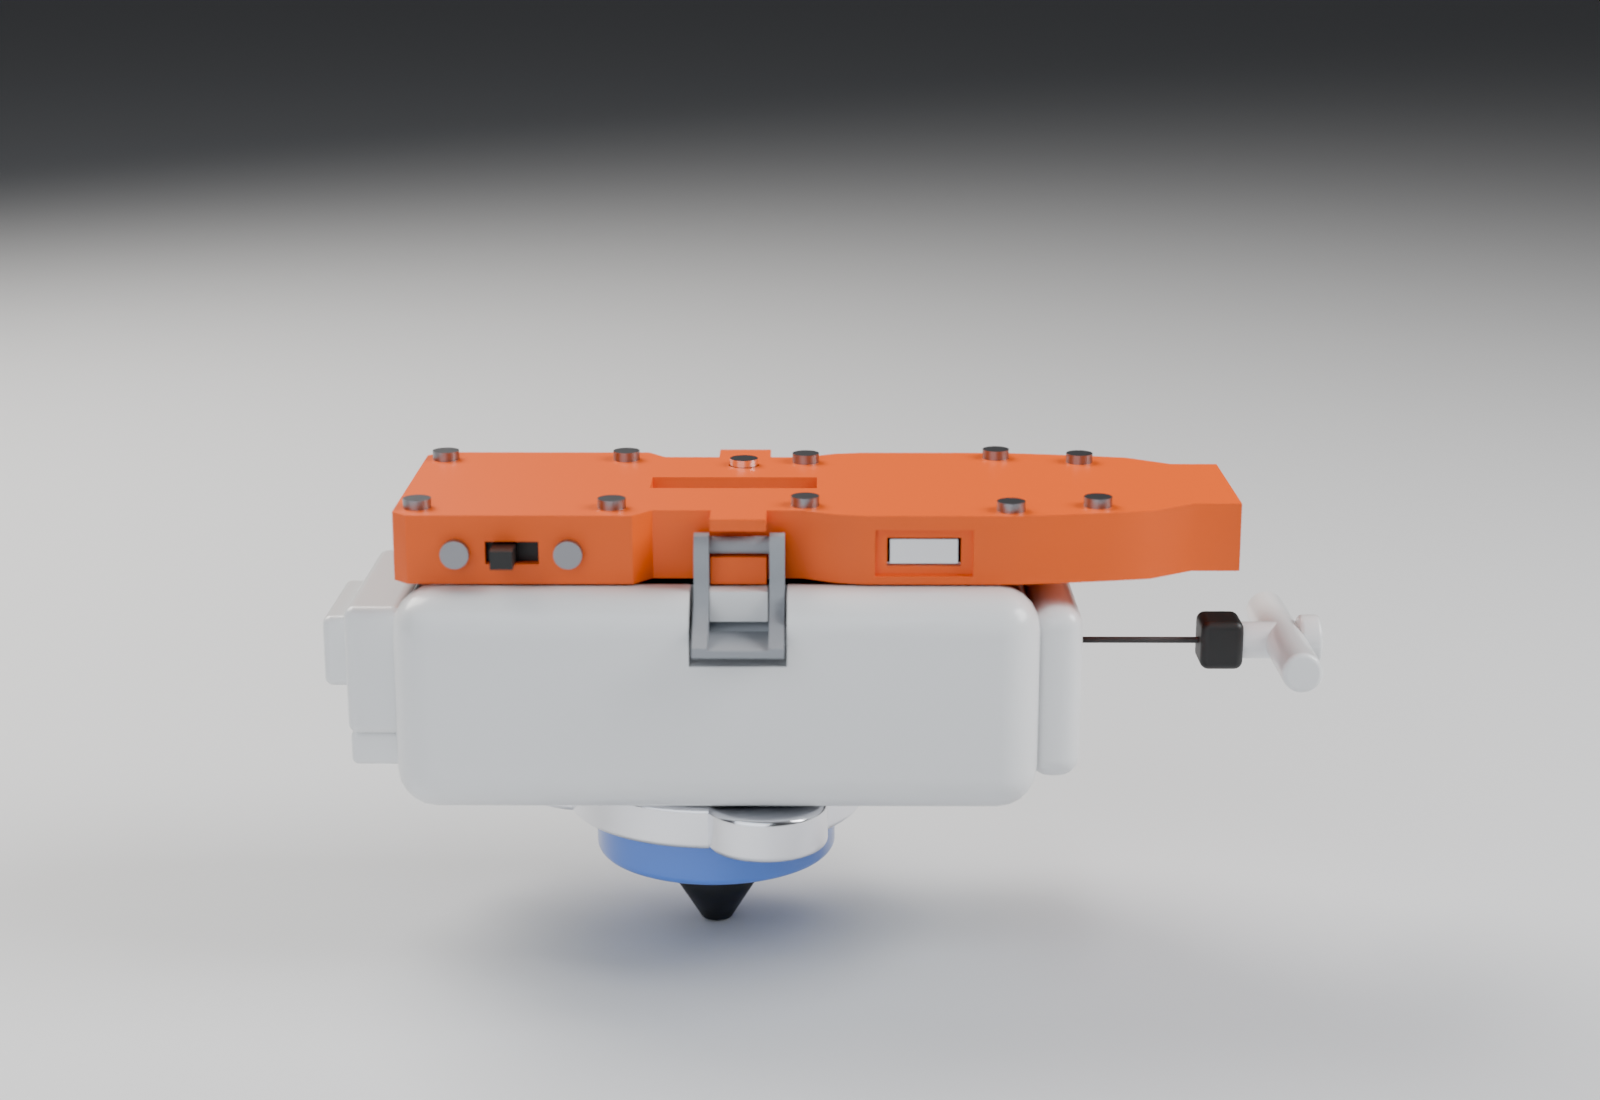
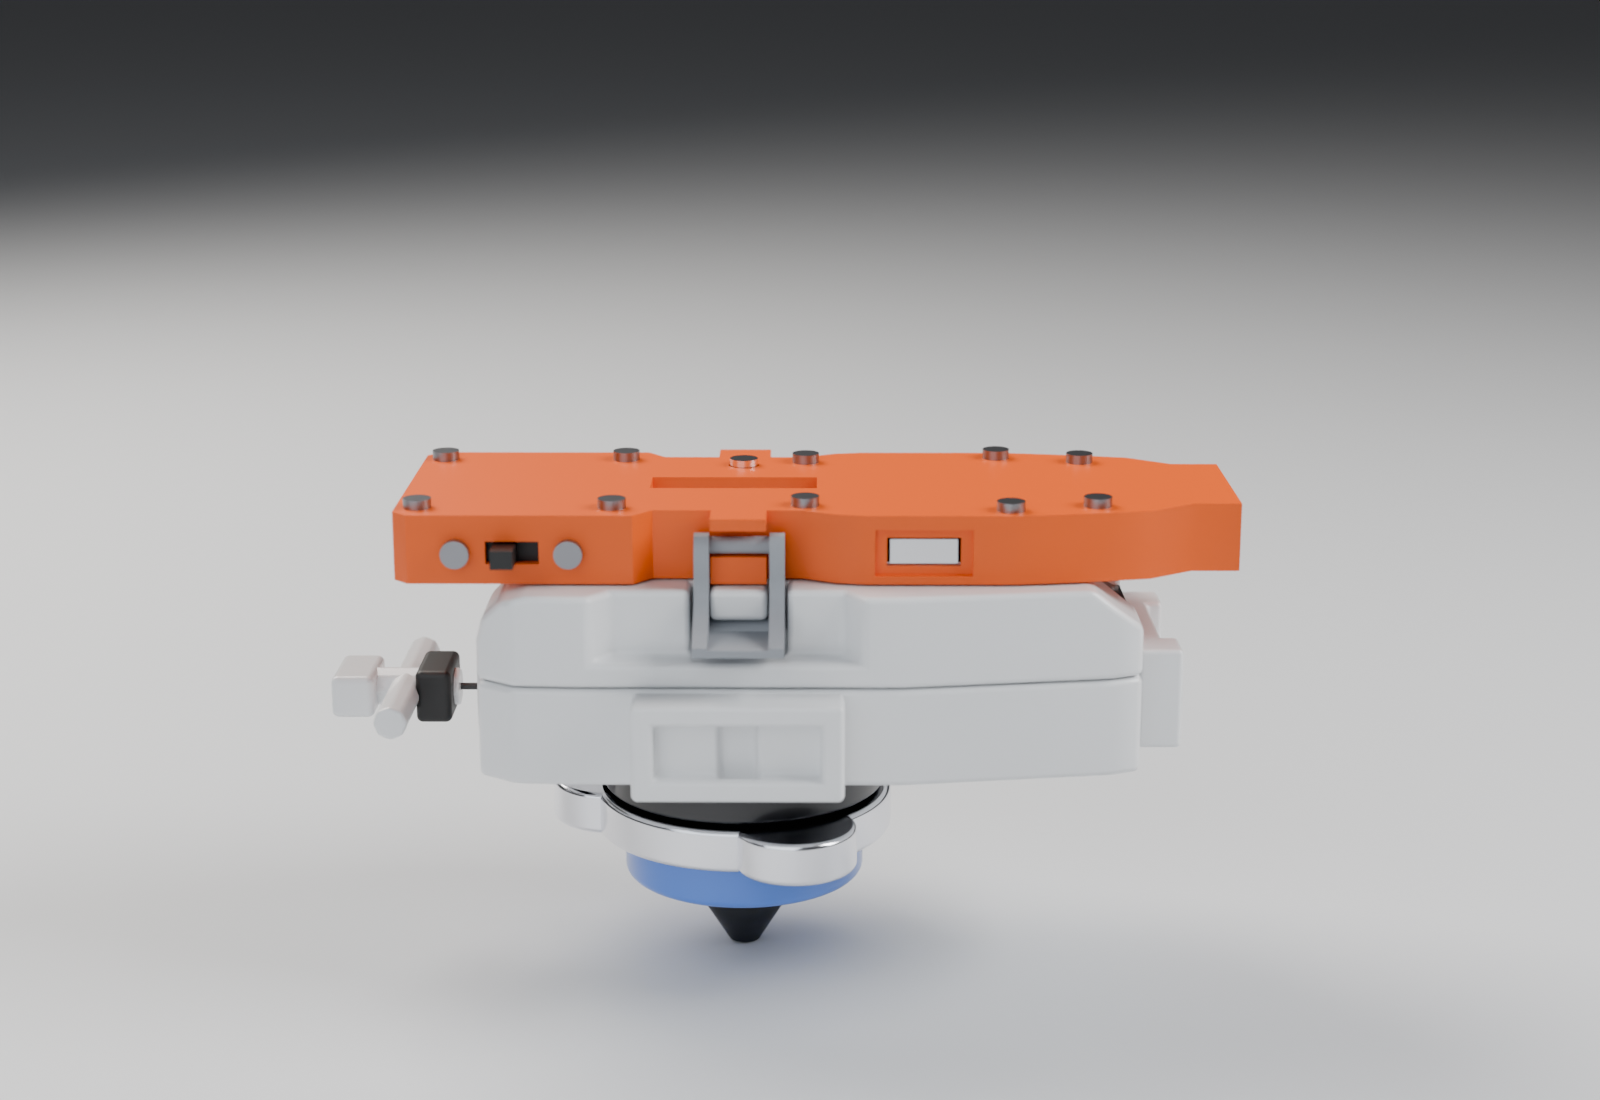
Render e documentazione con il launcher nel verso corretto

diff --git a/hardware/img/README.md b/hardware/img/README.md
@@ -16,8 +16,9 @@ I componenti sono **blocchi semplificati** con le misure tipiche usate nei param
 | `render_qre.png`, `render_qre_lato.png` | Render Blender della configurazione di riferimento: base QRE1113 di LaunchLab con la scatola SpinLite sopra, su un launcher a corda |
 | `render_piatta.png`, `render_piatta_lato.png`, `render_piatta_fronte.png`, `render_piatta_clip.png` | Render Blender della scatola piatta (`spinlite_flat.scad`) su un launcher a corda. La sede delle clip nel fianco del launcher è dedotta dalla forma delle clip, non misurata |
 | `render_tcrt.png` | Render Blender dell'alternativa: supporto laterale TCRT5000 di LaunchLab e scatola laterale (`spinlite_box.scad`) fissata al fianco con due fascette |
+| `render_launcher.png` | Render Blender del solo launcher: fascia nera con la finestrella del disco, più vicina alla corda, e il pistoncino |
 
-Nei render il **launcher e la trottola sono modelli stilizzati**, fatti a mano sulle foto del launcher a corda BX-28 (forma e proporzioni, non quote misurate). Nel launcher stilizzato la corda è dalla parte sbagliata: sul launcher vero la finestrella del disco è più vicina alla corda del pistoncino. Il verso giusto è in [scatola piatta](../../docs/scatola-piatta.md#verso-di-montaggio).
+Nei render il **launcher** è un modello fatto a mano sulle foto di un launcher a corda vero, in scala dai 7,6 mm tra finestrella e pistoncino: forma e proporzioni sono quelle delle foto, le misure hanno un errore di qualche mm. La corda è dal lato giusto, vicino alla finestrella. La **trottola** è generica. Il verso di montaggio è in [scatola piatta](../../docs/scatola-piatta.md#verso-di-montaggio).
 
 Colori dei fili: rosso +, nero GND, giallo uscita del sensore (GPIO3), azzurro batteria (GPIO4), verde e viola SDA/SCL dell'OLED.
 

diff --git a/hardware/README.md b/hardware/README.md
@@ -72,7 +72,7 @@ Perché così:
 | --- | --- |
 | ![render QRE](img/render_qre.png) | ![render TCRT](img/render_tcrt.png) |
 
-Render con Blender. Il launcher e la trottola sono **modellati a mano sulle foto del launcher a corda BX-28**: forma e proporzioni sono quelle, le quote no. I pezzi LaunchLab e SpinLite sono invece i modelli veri. Nel launcher stilizzato la corda è dalla parte sbagliata rispetto a quello vero. L'alternativa laterale mostra il suo limite: la scatola e le fascette occupano il fianco, cioè dove si tiene il launcher.
+Render con Blender. Il launcher è **modellato a mano sulle foto di un launcher a corda vero**: forma, proporzioni e lato della corda sono quelli delle foto, le misure hanno un errore di qualche mm. La trottola è generica. I pezzi LaunchLab e SpinLite sono invece i modelli veri. L'alternativa laterale mostra il suo limite: la scatola e le fascette occupano il fianco, cioè dove si tiene il launcher.
 
 ### File di LaunchLab in locale
 

diff --git a/docs/scatola-piatta.md b/docs/scatola-piatta.md
@@ -59,7 +59,9 @@ Sul launcher la finestrella del disco è più vicina alla corda, il foro del pis
 
 Le misure del launcher sono ricavate da una foto, usando come scala i 7,6 mm tra finestrella e pistoncino: l'errore è di qualche mm. La corda esce circa 20 mm sotto la faccia superiore, quindi la sporgenza dovrebbe passare sopra la maniglia a T.
 
-**Attenzione ai render:** nel launcher stilizzato la corda è dalla parte sbagliata, cioè vicino al pistoncino e dal lato della parte lunga. Il pezzo da stampare è corretto, l'immagine del launcher no.
+![Launcher visto dal lato della corda, con finestrella e pistoncino nella fascia nera](../hardware/img/render_launcher.png)
+
+Nei render il launcher è ridisegnato dalle foto di uno vero, con la corda dal lato giusto. Forma e proporzioni sono quelle delle foto, ma le misure hanno un errore di qualche mm: non usarlo come riferimento per modificare il corpo.
 
 ## Prima prova: lo spezzone
 

diff --git a/CLAUDE.md b/CLAUDE.md
@@ -64,7 +64,7 @@ hardware/           BOM.md (distinta base ufficiale), README.md (montaggio, base
                     enclosure/spinlite_flat.scad (corpo basso agganciato al launcher: VERSIONE ATTUALE, docs/scatola-piatta.md)
                     enclosure/spinlite_views.scad (viste con tutti i componenti e i fili), img/ (render + README con licenze)
                     third_party/fetch_launchlab.py -> third_party/launchlab/ (file LaunchLab CC BY-SA, NEL .gitignore)
-                    render/render.py + scene.py (render Blender; launcher BX-28 stilizzato, non quotato, con la corda dalla parte sbagliata)
+                    render/render.py + scene.py (render Blender; launcher ridisegnato dalle foto, corda verso -Y, misure con errore di qualche mm)
 .github/workflows/  build.yml (test + firmware + release su tag v*), pages.yml, _firmware.yml (riutilizzabile)
 ```
 
